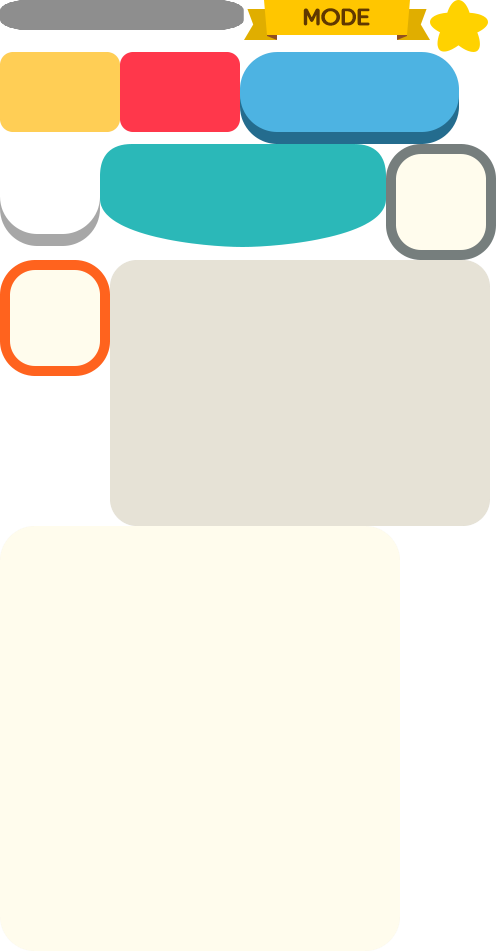
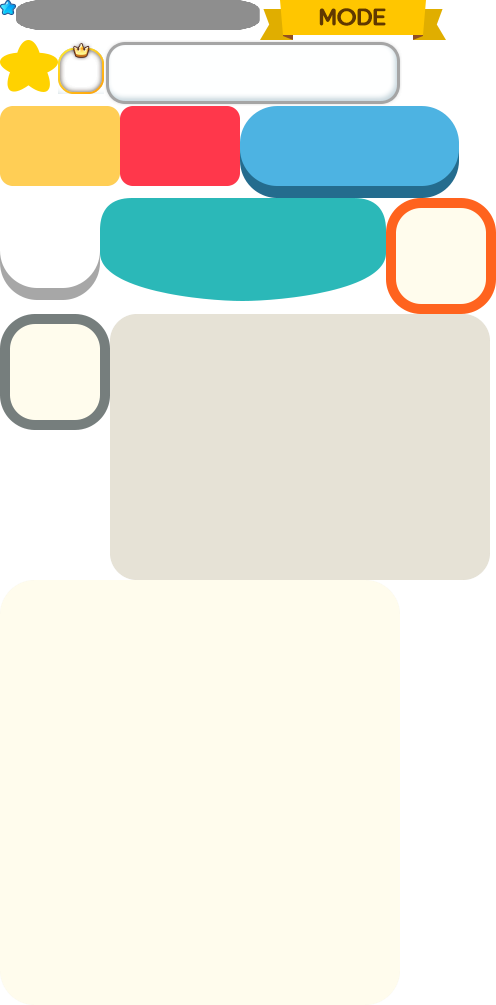
[애니팡 라이브] 프로필 관련 리소스 추가

Changed region(s): [[0.0, 0.0, 1.0, 0.4269], [0.2117, 0.5184, 0.998, 0.5794]]

diff --git a/anipanglive/WebContent/assets/canvas/ProFileScene.js b/anipanglive/WebContent/assets/canvas/ProFileScene.js
@@ -1,0 +1,63 @@
+// Generated by Phaser Editor v1.2.1
+
+/**
+ * ProFileScene.
+ * @param {Phaser.Game} aGame The game.
+ * @param {Phaser.Group} aParent The parent group. If not given the game world will be used instead.
+ */
+function ProFileScene(aGame, aParent) {
+	Phaser.Group.call(this, aGame, aParent);
+
+	/* --- pre-init-begin --- */
+
+	// you can insert code here
+
+	/* --- pre-init-end --- */
+
+	this.game.add.sprite(0, 0, 'mainUI', 'bgProfile.png', this);
+
+	var progress = this.game.add.group(this);
+	progress.position.setTo(192, 34);
+
+	this.game.add.sprite(11, 2, 'mainUI', 'iconLine.png', this);
+
+	var iconExp_png = this.game.add.sprite(68, 38, 'mainUI', 'iconExp.png', this);
+	iconExp_png.scale.setTo(1.1875000767052635, 1.266666690760949);
+
+	 // public fields
+
+	this.fProgress = progress;
+	this.fIconExp_png = iconExp_png;
+
+	/* --- post-init-begin --- */
+
+	// you can insert code here
+	this.game.cache.addNinePatch('ImageLoadingBg', 'preload_loading_base', null, 49, 49, 30, 30);
+	this.game.cache.addNinePatch('ImageLoadingBar', 'preload_loading_bar', null, 10, 10, 10, 10);
+	
+	this.fImgLoadingBg = new Phaser.NinePatchImage(this.game, 0, 0, 'ImageLoadingBg');
+	this.fImgLoadingBg.targetWidth = 240;
+	this.fImgLoadingBg.height = 15;
+	
+	this.fProgress.position.x = this.fIconExp_png.x - 20;
+	this.fProgress.add(this.fImgLoadingBg);
+	
+	this.fImgLoadingBar = new Phaser.NinePatchImage(this.game, 22, 10, 'ImageLoadingBar');
+	this.fImgLoadingBar.targetWidth = 21;
+	this.fImgLoadingBar.MAX_TARGET_WIDTH = 240;
+	this.fImgLoadingBar.height = 15;
+	
+	this.fProgress.add(this.fImgLoadingBar);
+	
+	/* --- post-init-end --- */
+}
+
+/** @type Phaser.Group */
+var ProFileScene_proto = Object.create(Phaser.Group.prototype);
+ProFileScene.prototype = ProFileScene_proto;
+ProFileScene.prototype.constructor = Phaser.Group;
+
+/* --- end generated code --- */
+
+// you can insert code here
+

diff --git a/anipanglive/WebContent/assets/canvas/lobbyScene.js b/anipanglive/WebContent/assets/canvas/lobbyScene.js
@@ -49,10 +49,13 @@ function lobbyScene(aGame, aParent) {
 
 	this.game.add.sprite(133, 143, 'mainUI', 'bgText.png', mainUI);
 
+	var groupProfile = this.game.add.group(this);
+
 	 // public fields
 
 	this.fBitmap_5_png = Bitmap_5_png;
 	this.fBg_png = bg_png;
+	this.fGroupProfile = groupProfile;
 
 	/* --- post-init-begin --- */
 
